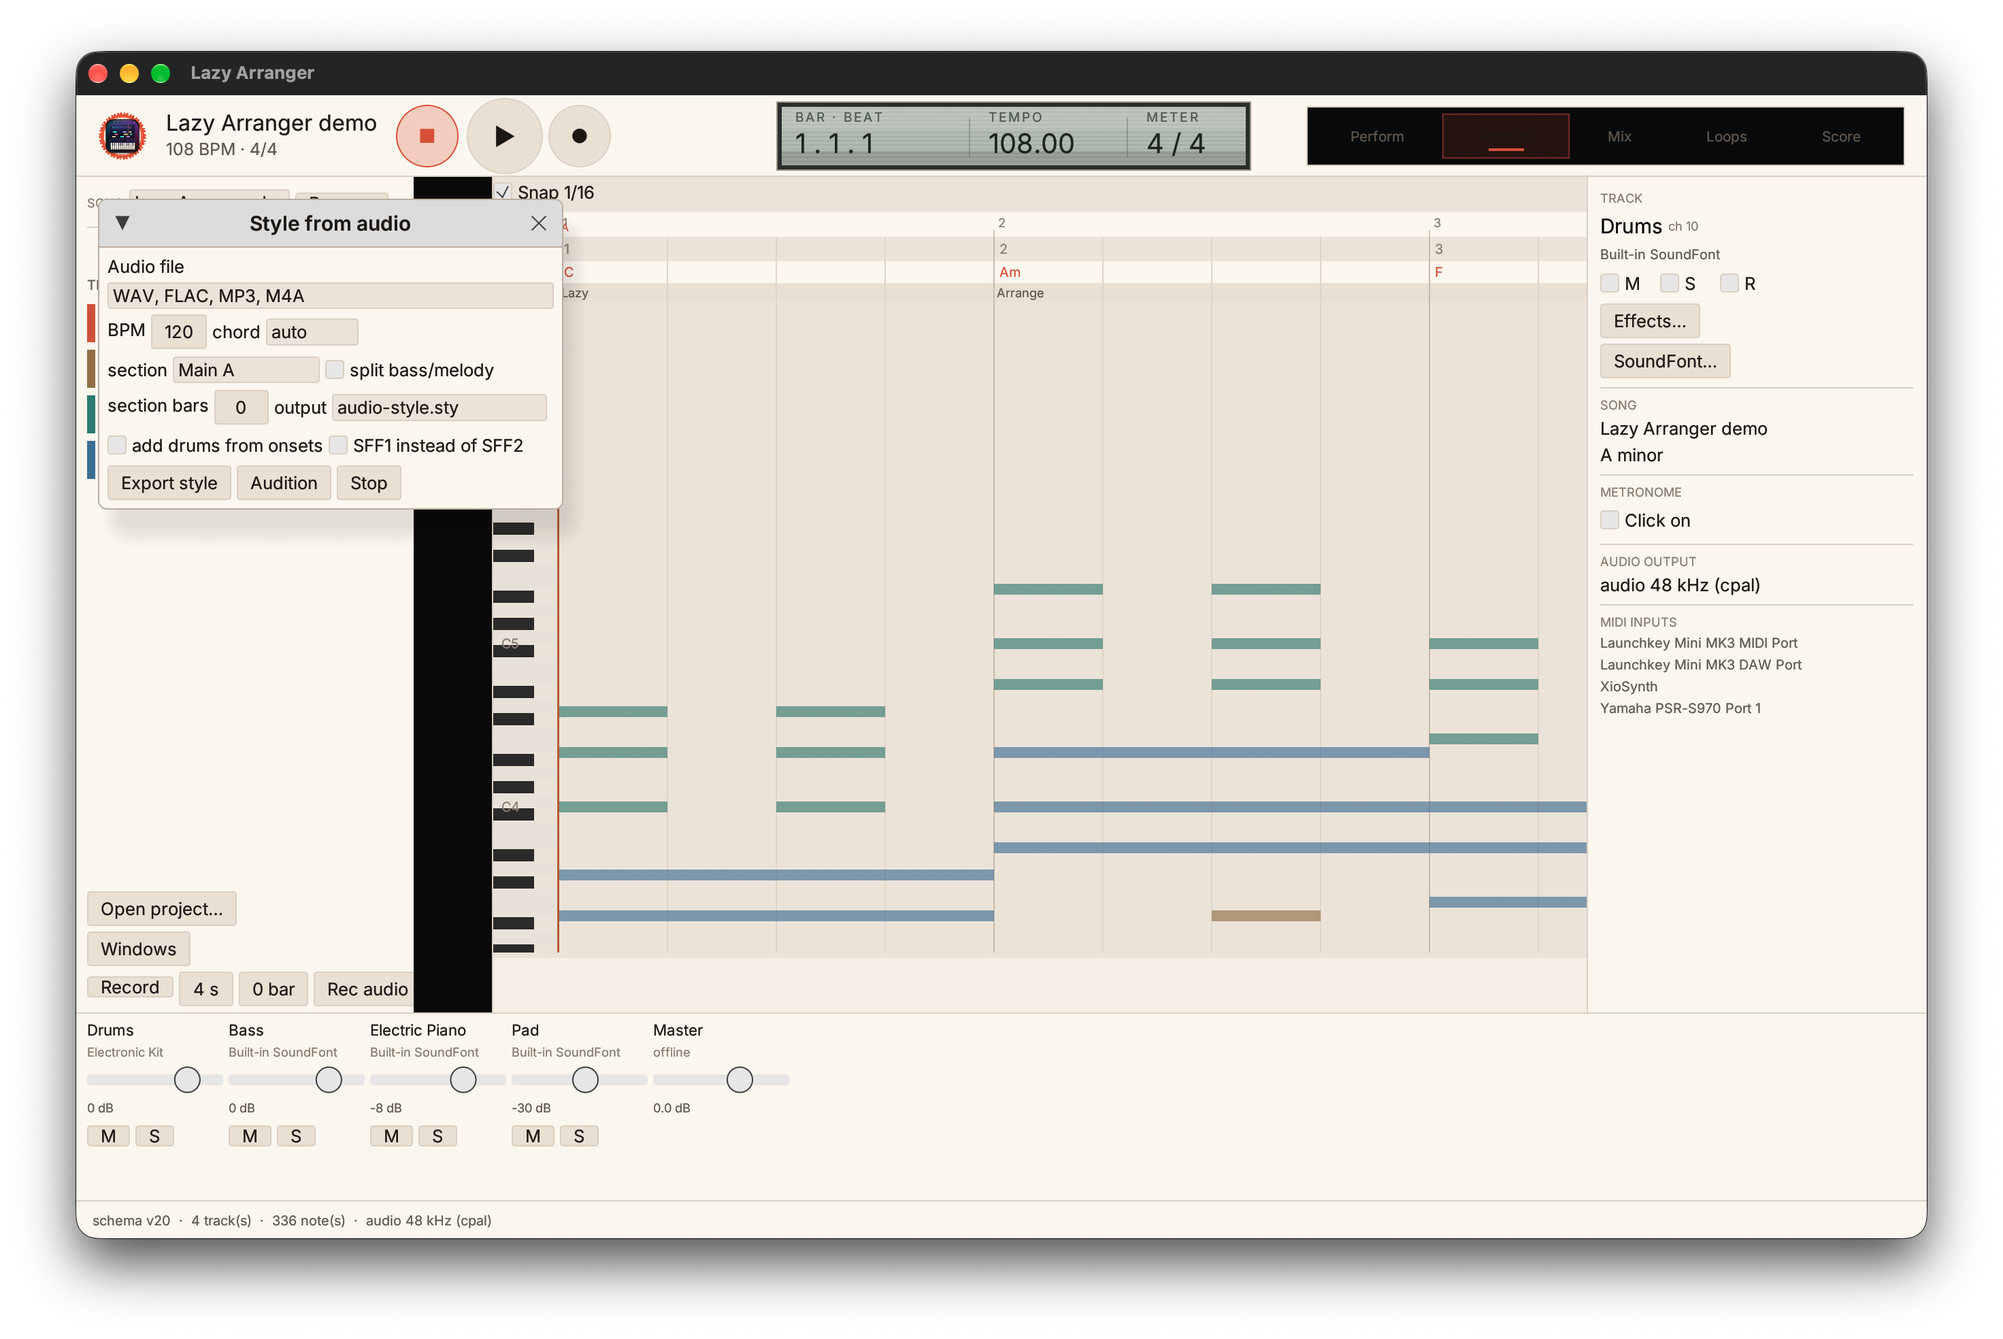
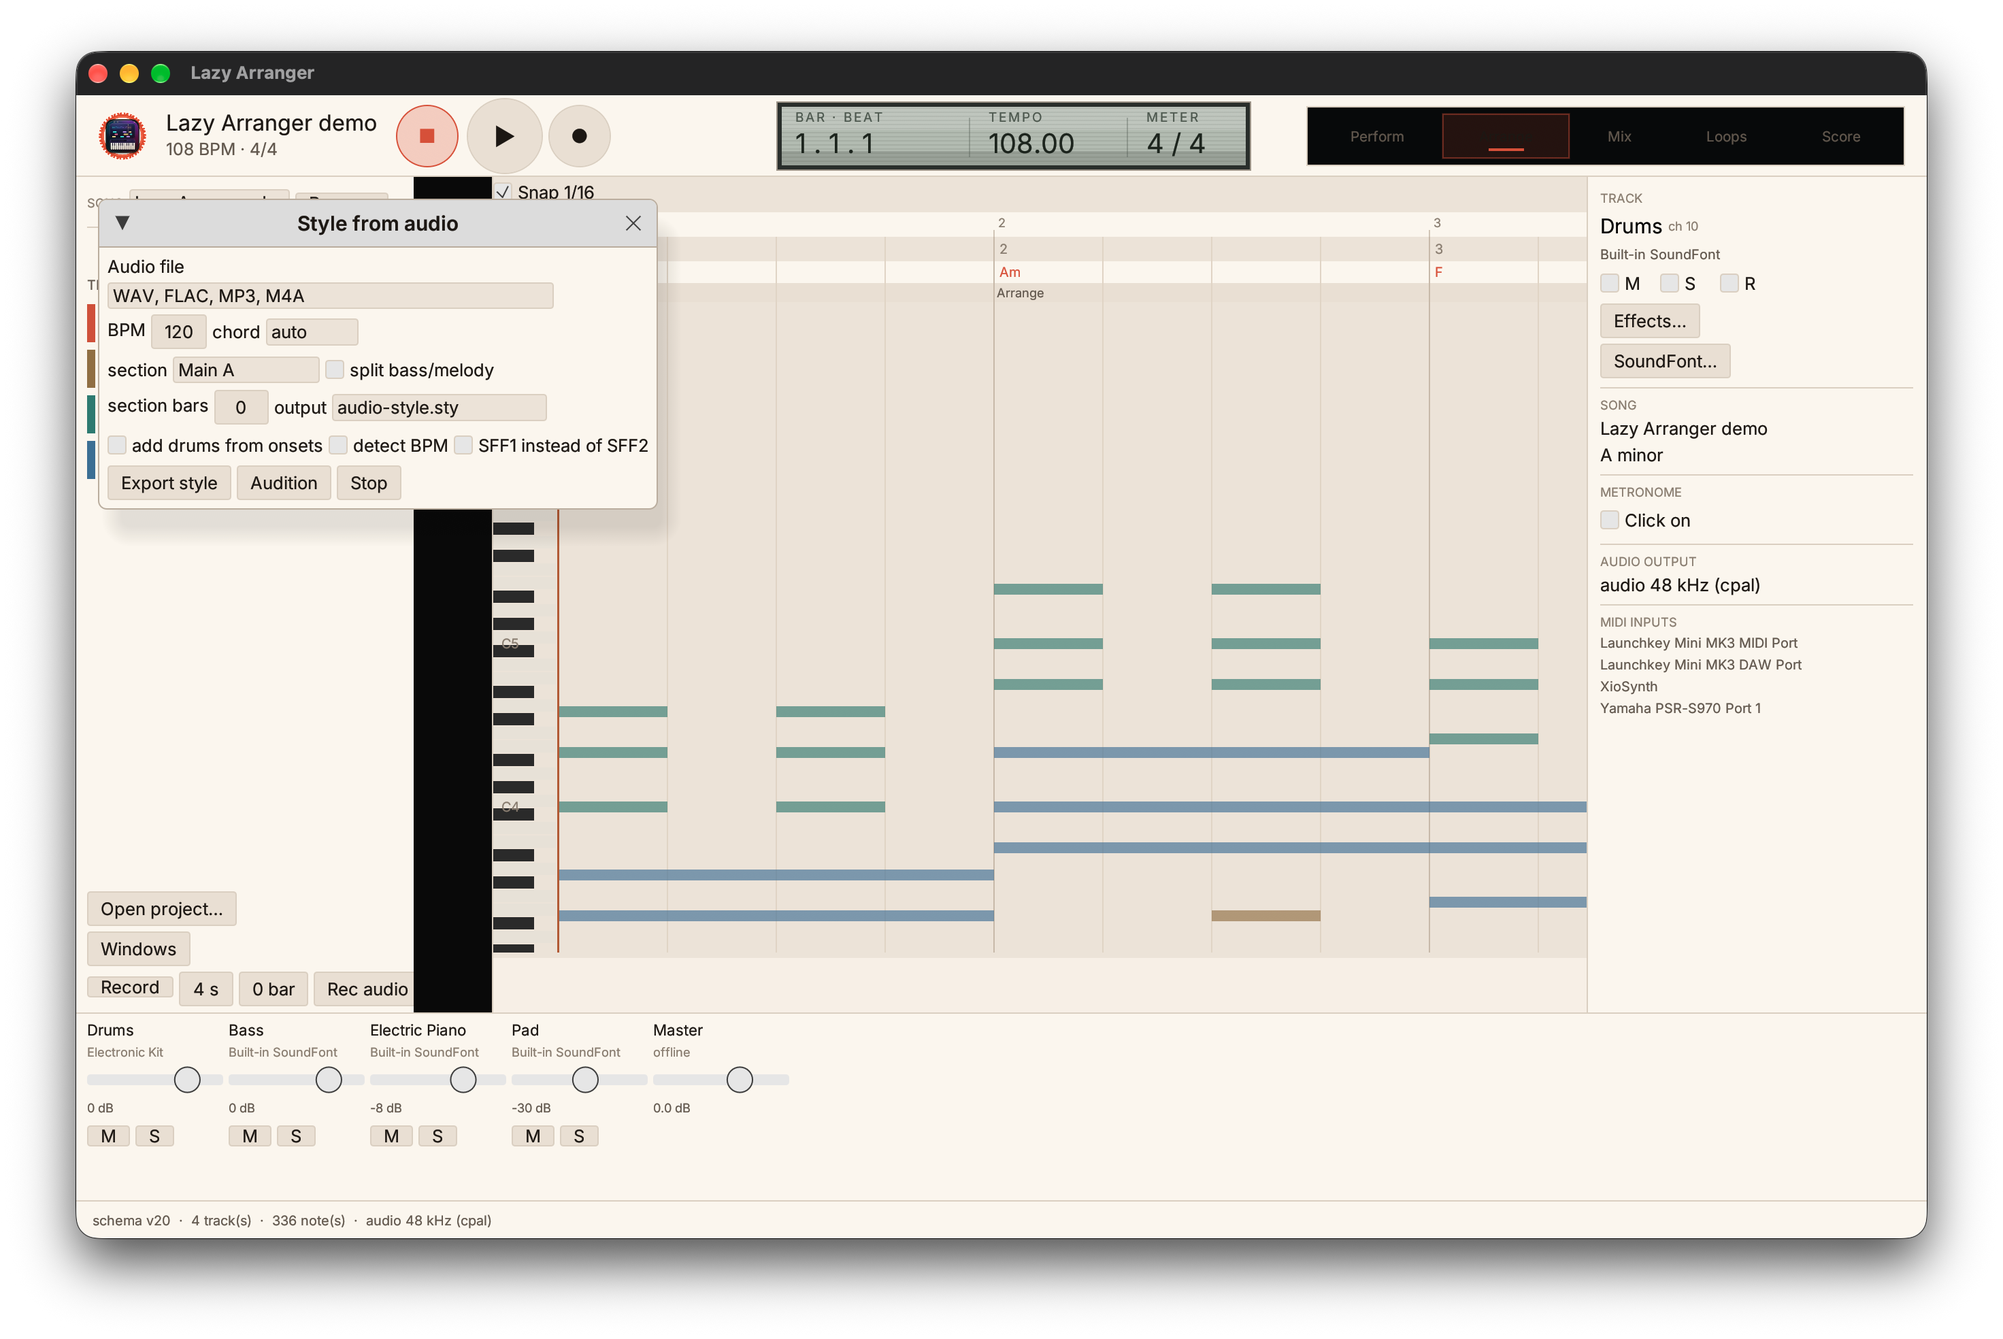
feat(audio): estimate tempo from onsets
Adds analysis::estimate_tempo and --detect-tempo/detect BPM through CLI, MCP and
the desktop dialog. A click fixture estimates 119.68 bpm.

698 tests pass; clippy, fmt and rustdoc clean.

Changed region(s): [[0.1875, 0.155, 0.3438, 0.4029], [0.125, 0.155, 0.2188, 0.186]]

diff --git a/crates/audio/src/analysis.rs b/crates/audio/src/analysis.rs
@@ -155,6 +155,44 @@ pub fn as_pitch(pitch: u8) -> Option<Pitch> {
     Pitch::new(pitch).ok()
 }
 
+/// Estimates tempo from the median gap between detected onsets.
+///
+/// Returns `None` when fewer than four onsets are found. The result is folded
+/// into 60..=180 bpm.
+#[must_use]
+pub fn estimate_tempo(samples: &[f32], sample_rate: u32) -> Option<f64> {
+    if sample_rate == 0 {
+        return None;
+    }
+    let onsets = crate::drums::onsets(samples, sample_rate);
+    if onsets.len() < 4 {
+        return None;
+    }
+    let mut gaps: Vec<f64> = onsets
+        .windows(2)
+        .filter_map(|pair| {
+            let gap = pair[1].saturating_sub(pair[0]) as f64 / f64::from(sample_rate);
+            (0.15..=2.0).contains(&gap).then_some(gap)
+        })
+        .collect();
+    if gaps.len() < 3 {
+        return None;
+    }
+    gaps.sort_by(|left, right| left.partial_cmp(right).unwrap_or(std::cmp::Ordering::Equal));
+    let median = gaps[gaps.len() / 2];
+    if median <= 0.0 {
+        return None;
+    }
+    let mut bpm = 60.0 / median;
+    while bpm < 60.0 {
+        bpm *= 2.0;
+    }
+    while bpm > 180.0 {
+        bpm /= 2.0;
+    }
+    (60.0..=180.0).contains(&bpm).then_some(bpm)
+}
+
 #[cfg(test)]
 mod tests {
     use super::*;
@@ -167,6 +205,21 @@ mod tests {
                     * 0.5
             })
             .collect()
+    }
+
+    #[test]
+    fn regular_clicks_estimate_a_tempo() {
+        let rate = 48_000_u32;
+        let mut samples = vec![0.0_f32; rate as usize * 4];
+        for click in 0..8 {
+            let start = click as usize * rate as usize / 2;
+            for (index, sample) in samples.iter_mut().skip(start).take(200).enumerate() {
+                let envelope = 1.0 - index as f32 / 200.0;
+                *sample = if index % 2 == 0 { envelope } else { -envelope };
+            }
+        }
+        let tempo = estimate_tempo(&samples, rate).expect("tempo");
+        assert!((tempo - 120.0).abs() < 2.0, "got {tempo}");
     }
 
     #[test]

diff --git a/apps/cli/src/lib.rs b/apps/cli/src/lib.rs
@@ -743,6 +743,9 @@ enum Commands {
         /// Derive a Drums part from onsets.
         #[arg(long)]
         drums: bool,
+        /// Detect BPM from onsets instead of using --bpm.
+        #[arg(long)]
+        detect_tempo: bool,
         /// sff1 or sff2 (default).
         #[arg(long, default_value = "sff2")]
         version: String,
@@ -2059,6 +2062,7 @@ fn run(cli: Cli) -> Result<(), Box<dyn Error>> {
             split_parts,
             section_bars,
             drums,
+            detect_tempo,
             version,
         } => style_from_audio(
             &audio,
@@ -2069,6 +2073,7 @@ fn run(cli: Cli) -> Result<(), Box<dyn Error>> {
             split_parts,
             section_bars,
             drums,
+            detect_tempo,
             &version,
         ),
         Commands::StyleFromClips {
@@ -2665,6 +2670,7 @@ fn style_from_audio(
     split_parts: bool,
     section_bars: u32,
     drums: bool,
+    detect_tempo: bool,
     version: &str,
 ) -> Result<(), Box<dyn Error>> {
     let decoded = audio::decode::decode_mono(audio_path).or_else(|_| {
@@ -2690,6 +2696,7 @@ fn style_from_audio(
             split_parts,
             section_bars,
             include_drums: drums,
+            detect_tempo,
         },
     )?;
     let style = built.style;
@@ -2703,9 +2710,10 @@ fn style_from_audio(
         .map_err(|error| format!("could not write {}: {error}", out.display()))?;
     let check = style_formats::import_style(&bytes)?;
     println!(
-        "wrote {}: source {}, {} detected note(s), {} section(s), {} byte(s); re-read {:?}",
+        "wrote {}: source {}, {:.2} bpm, {} detected note(s), {} section(s), {} byte(s); re-read {:?}",
         out.display(),
         built.source_chord.name(),
+        built.bpm,
         built.notes,
         style.sections.len(),
         bytes.len(),

diff --git a/crates/style-formats/src/audio_style.rs b/crates/style-formats/src/audio_style.rs
@@ -19,6 +19,8 @@ pub struct AudioStyleOptions<'a> {
     pub section_bars: u32,
     /// Derive a Drums part from onsets and band energy.
     pub include_drums: bool,
+    /// Replace `bpm` with an onset-derived tempo when one is found.
+    pub detect_tempo: bool,
 }
 
 /// A built audio style and what was detected.
@@ -30,6 +32,8 @@ pub struct BuiltAudioStyle {
     pub source_chord: ArrangerChord,
     /// Number of detected notes placed in the style.
     pub notes: usize,
+    /// Tempo used, after optional detection.
+    pub bpm: f64,
 }
 
 /// Builds a style from monophonic notes in `audio`.
@@ -41,7 +45,13 @@ pub fn style_from_audio(
     audio: &RenderedAudio,
     options: AudioStyleOptions<'_>,
 ) -> Result<BuiltAudioStyle, String> {
-    let bpm = options.bpm.max(1.0);
+    let bpm = if options.detect_tempo {
+        audio::analysis::estimate_tempo(&audio.samples, audio.sample_rate)
+            .unwrap_or(options.bpm)
+            .max(1.0)
+    } else {
+        options.bpm.max(1.0)
+    };
     let detected = audio::analysis::to_midi(&audio.samples, audio.sample_rate);
     let seconds = audio.samples.len() as f64 / f64::from(audio.sample_rate);
     let length = audio::chords::to_ticks(seconds, bpm);
@@ -102,6 +112,7 @@ pub fn style_from_audio(
         style,
         source_chord: source,
         notes,
+        bpm,
     })
 }
 
@@ -268,6 +279,7 @@ mod tests {
                 split_parts: false,
                 section_bars: 0,
                 include_drums: true,
+                detect_tempo: false,
             },
         )
         .expect("style");
@@ -293,6 +305,7 @@ mod tests {
                 split_parts: false,
                 section_bars: 0,
                 include_drums: false,
+                detect_tempo: false,
             },
         )
         .expect("style");

diff --git a/apps/desktop/src/app.rs b/apps/desktop/src/app.rs
@@ -545,6 +545,7 @@ pub struct ShellApp {
     audio_style_split: bool,
     audio_style_section_bars: u32,
     audio_style_drums: bool,
+    audio_style_detect_tempo: bool,
     audio_style_out: String,
     audio_style_sff1: bool,
     master_fx_open: bool,
@@ -782,6 +783,7 @@ impl ShellApp {
             audio_style_split: false,
             audio_style_section_bars: 0,
             audio_style_drums: false,
+            audio_style_detect_tempo: false,
             audio_style_out: String::from("audio-style.sty"),
             audio_style_sff1: false,
             master_fx_open: std::env::var("ARRANGER_MASTER_FX").is_ok(),
@@ -3230,6 +3232,7 @@ impl ShellApp {
                 split_parts: self.audio_style_split,
                 section_bars: self.audio_style_section_bars,
                 include_drums: self.audio_style_drums,
+                detect_tempo: self.audio_style_detect_tempo,
             },
         )
     }
@@ -3275,6 +3278,7 @@ impl ShellApp {
                 });
                 ui.horizontal(|ui| {
                     ui.checkbox(&mut self.audio_style_drums, "add drums from onsets");
+                    ui.checkbox(&mut self.audio_style_detect_tempo, "detect BPM");
                     ui.checkbox(&mut self.audio_style_sff1, "SFF1 instead of SFF2");
                 });
                 ui.horizontal(|ui| {

diff --git a/crates/mcp/src/lib.rs b/crates/mcp/src/lib.rs
@@ -2776,6 +2776,10 @@ pub fn call(session: &mut EditSession, name: &str, arguments: &Value) -> Result<
                 .get("drums")
                 .and_then(Value::as_bool)
                 .unwrap_or(false);
+            let detect_tempo = arguments
+                .get("detect_tempo")
+                .and_then(Value::as_bool)
+                .unwrap_or(false);
             let version = match arguments
                 .get("version")
                 .and_then(Value::as_str)
@@ -2819,6 +2823,7 @@ pub fn call(session: &mut EditSession, name: &str, arguments: &Value) -> Result<
                     split_parts,
                     section_bars,
                     include_drums: drums,
+                    detect_tempo,
                 },
             )
             .map_err(ToolError::Arguments)?;

diff --git a/docs/audit/cpp-features-crosscheck.md b/docs/audit/cpp-features-crosscheck.md
@@ -21,7 +21,7 @@ section below is a row, so nothing is skipped. Status: **verified**,
 | 12 | Clip grid | partial | Scenes of N bars, slots, a bar-quantised launcher with waiting/cancel/log, scene recording to the timeline as undoable edits, `get_clip_grid`. Loops view shows scene rows and track slots, queues on click and records a take. The grid shows track column headers and a Rename button; right-click a slot to clear, set 1/2 bars or copy to the playhead. Scene names persist and can be renamed; slot length, clear and copy-to-tick work and are exposed as `edit_slot`. A Launchkey pad preset maps notes 36-51 to pad audition; no audio-loop library |
 | 13 | Smart chords | partial | Chord parsing, transposition, progression text, roman numerals in the chosen key, chord lane with K entry, 16 key-aware pads, and a suggestion function with dialog buttons. Reharmonize rules and dialog. Find Chords from the Music (pitch-class recognition, slash bass). Inversions/voicings as ascending pitch sets with A/B WAV audition (`voicing C --out-dir` wrote a.wav and b.wav). A Settings toggle detects chords after MIDI recording and a Launchkey pad preset maps notes 36-51 to pad audition; no real-time chord capture |
 | 14 | Styles | partial | Yamaha open, import, compile on chords, **save container (SFF1/SFF2, real 15-section style rewritten)**; `style_from_clips` (MCP), `style-from-clips` (CLI) and a Windows > Style from clips dialog build an SFF from a project's tracks with default channel rules; `--from-markers` writes one section per marker (demo: A and B, 8 bars each, 168 notes each, re-read cleanly), otherwise one section from `--length`; dialog capture `docs/audit/style-clips.png`. Track program and bank-select events now round-trip through the SMF reader/writer and the style writer and are editable from the Inspector Bank row; Korg, live sections, XG voices and the SInt setup region remain absent; a basic rules editor (destination channel, written root/type, NTR/NTT, held-note RTR, bass, high key/limits) edits the style draft before export, and an Audition button renders the style to a temporary song and plays it. Catalog resolution by number or name (`style-resolve`) matched a real library entry; a PCG scanner now recognises the KORG marker and model name only, with no program or combi decoding |
-| 15 | Style from Audio and Link | partial | Link→monophonic MIDI; `style-from-audio` turns a decoded audio file's monophonic detected notes into a one-part SFF, with `--chord auto` picking the strongest chroma-recognized chord (C-major chord test: source C, re-read C); generated rules now carry the source chord. `--split-parts` separates notes below C3 into Bass (channel 11) and the rest into Chord 1 (channel 12); `--section-bars` makes uniform sections (6-second low/high fixture: Main A and Main B, one bar each, durations clipped at boundaries). An optional Drums part is derived from onsets and low/high band energy (low hit test maps to kick 36); the same builder is exposed by the desktop dialog (`docs/audit/style-from-audio.png`), CLI and MCP. No analysis-driven section names, stems or match scores |
+| 15 | Style from Audio and Link | partial | Link→monophonic MIDI; `style-from-audio` turns a decoded audio file's monophonic detected notes into a one-part SFF, with `--chord auto` picking the strongest chroma-recognized chord (C-major chord test: source C, re-read C); generated rules now carry the source chord. `--split-parts` separates notes below C3 into Bass (channel 11) and the rest into Chord 1 (channel 12); `--section-bars` makes uniform sections (6-second low/high fixture: Main A and Main B, one bar each, durations clipped at boundaries). An optional Drums part is derived from onsets and low/high band energy (low hit test maps to kick 36); `--detect-tempo` estimates BPM from onset spacing (click fixture: 119.68 bpm); the same builder is exposed by the desktop dialog (`docs/audit/style-from-audio.png`), CLI and MCP. No analysis-driven section names, stems or match scores |
 | 16 | Score view | partial | MusicXML export/import with `<harmony>` chords, drum instrument ids, `<sound dynamics>`, slurs and a round-trip audit. On the demo tracks, chords (16), lyrics (2), marks (2), drums and the pitched detail are preserved (186 = 186 after merging 22 ties). A style-derived project with mixed drum/pitched tracks and overlapping notes now keeps all 1,423 pitched notes (counts and tie merges), but one chord-group note starts at a different tick inside an overlap; `<backup>` was added for overlaps, and MusicXML still cannot express every simultaneous overlap we hold, which is recorded as a limitation plus a toolkit-independent layout engine (pages, systems, measures, positioned notes, CLI report). An egui page canvas renders staff lines, barlines, noteheads, page navigation and zoom from the layout. Key detection, spelling, accidentals, canvas, vector PDF, per-pitch ties and a lyric line (40-bar two-page acceptance test). Dynamics and articulations are marks in schema v11, exchanged as MusicXML directions and drawn by both renderers. Note entry: with Note entry enabled, a click on the score inserts a note at a quarter-quantised tick and the staff pitch through one undoable command. A grand-staff toggle, beams, tuplet brackets, ties, rests in gaps/empty measures, augmentation dots (notes and rests) and articulation glyphs now draw on canvas and PDF; phrase slurs (schema v18) draw as curves, are exposed by `get_slurs`/`set_slurs` and round-trip as MusicXML `<slur>` notations; a drum track gets a one-line percussion staff with x noteheads on canvas and PDF; lyrics shift right when crowded; chord names are drawn above the staff on canvas and PDF, common major/minor/seventh chords get guitar frames (slash chords or unlisted qualities get none); the Score view has a path field, Save PDF and a Print dialog with printer, copies and page ranges via `lp`; chord names and guitar frames draw on canvas and PDF with a top reserve, the song title draws inside the page margin, one lyric per chord tick, PDF text uses the dark fill; four 4/4 measures fit a system and the song meter draws at each system start, measure numbers draw above the staff, `docs/audit/score-page.png` shows the balanced layout, and a headless test checks canvas text; and a headless egui test verifies the canvas title, chord name and measure number shapes; dense rhythms widen their measures and crowded accidentals shift left; Shift-drag resizes a note's duration (quarter-quantised); augmentation dots move into the space above when their notehead or rest sits on a staff line (no other vertical rest collision handling); The primary Score view and PDF now use the bundled Cecilia 0.51 engraver through a Song→Cecilia adapter (key signature and subtitle, G/F clefs, grand staff, tempo and chords, PNG pages); the legacy vector editor remains behind the Cecilia-preview toggle; printing uses `lp`, not an OS print panel |
 | 17 | Mixer and buses | partial | Tracks carry fader, pan, mute/solo and automation; buses (schema v13) have volume and pan, tracks route to a bus and can send a copy at a level, and the render sums bus buffers after the tracks. Mix view shows bus rows with volume/pan/remove and an Add bus action plus a per-track routing picker (`docs/audit/mix.png`). Mix rows add a send-bus picker and send-level slider over the same routing command; Loops slots have a right-click menu for clear, one-bar length and copy to playhead. Master gain and a soft limiter apply to playback and `export-audio` (`--gain-db`, `--no-limiter`), and the export prints peak/RMS; master reverb and chorus wet amounts (feedback-delay reverb and modulated-delay chorus, applied after gain before the limiter) are settable in the Mixer and Settings and used by playback/`export-audio --reverb/--chorus`; master peak/RMS bars and per-track peak badges draw while playing (track levels come from offline stems; other master effects absent) |
 | 18 | Automation | partial | Volume and pan lanes with linear interpolation and held ends, applied per note in the render, edited through one undoable command. Arrange shows a volume lane for the selected track; clicking adds a point, clicking a point removes it, and each edit is one command. the automation target picker covers Volume, Pan, Send and Brightness; no plugin-parameter lanes or MIDI-port automation |

diff --git a/docs/audit/final-status.md b/docs/audit/final-status.md
@@ -93,4 +93,4 @@ For the clef layout, choose either four measures per system without clefs
 - Style from clips has Audition/Stop, compiling the section(s) to a temporary song and playing it.
 - Beat view offers 1/2/4-bar patterns in a horizontal scroller.
 - `style-from-audio` writes a one-part style from monophonic detected notes; `--chord auto` picks the strongest chroma chord, and the source chord is persisted in the written rules. `--split-parts` produces Bass and Chord 1 parts; `--section-bars` splits into uniform sections with clipped notes. No analysis-driven sections, stems or match scoring.
-- Style from audio is shared by CLI, MCP and a desktop dialog (`docs/audit/style-from-audio.png`); an optional onset/band-energy Drums part is a heuristic, not stem separation; 95 MCP tools.
+- Style from audio is shared by CLI, MCP and a desktop dialog (`docs/audit/style-from-audio.png`); an optional onset/band-energy Drums part and onset-spacing tempo detection are heuristics, not stem separation; 95 MCP tools.
